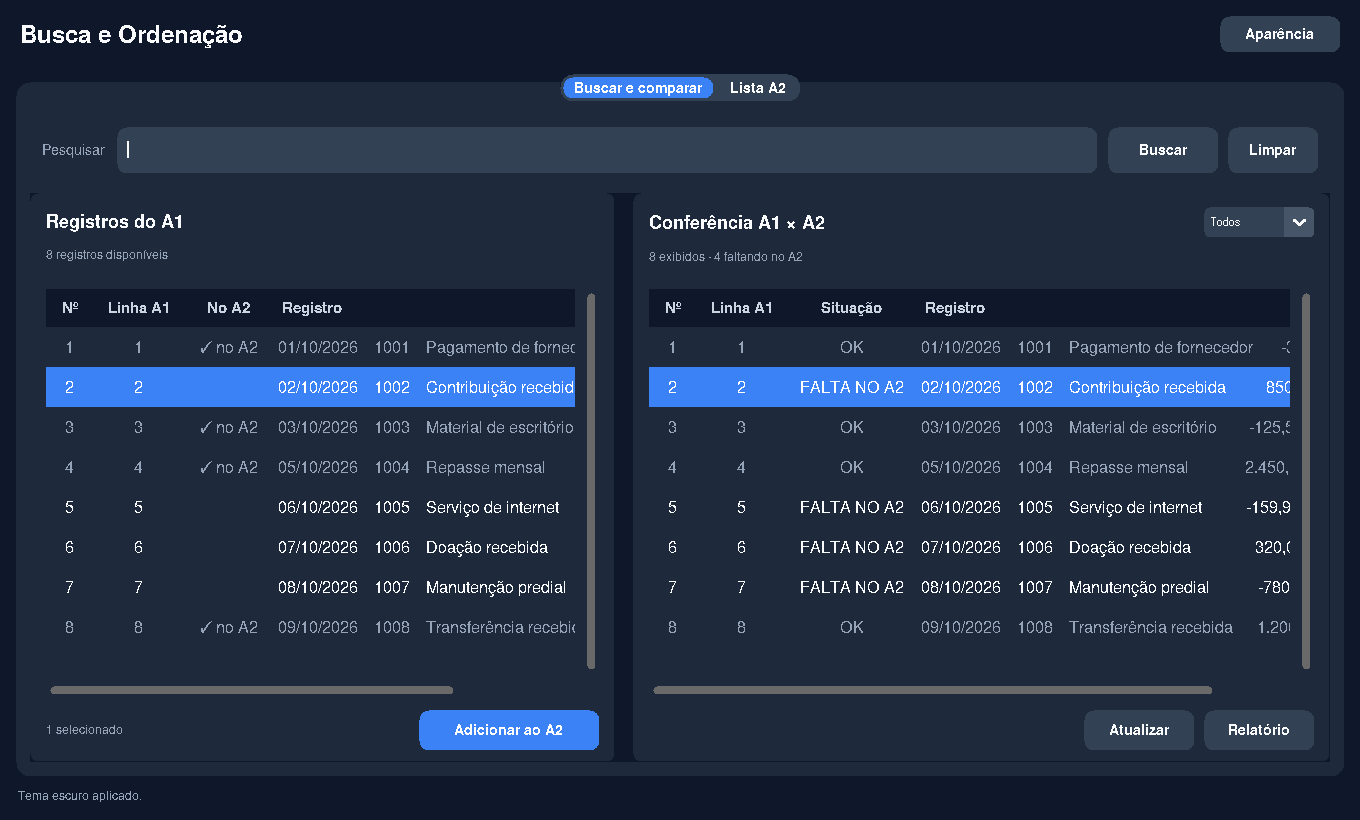
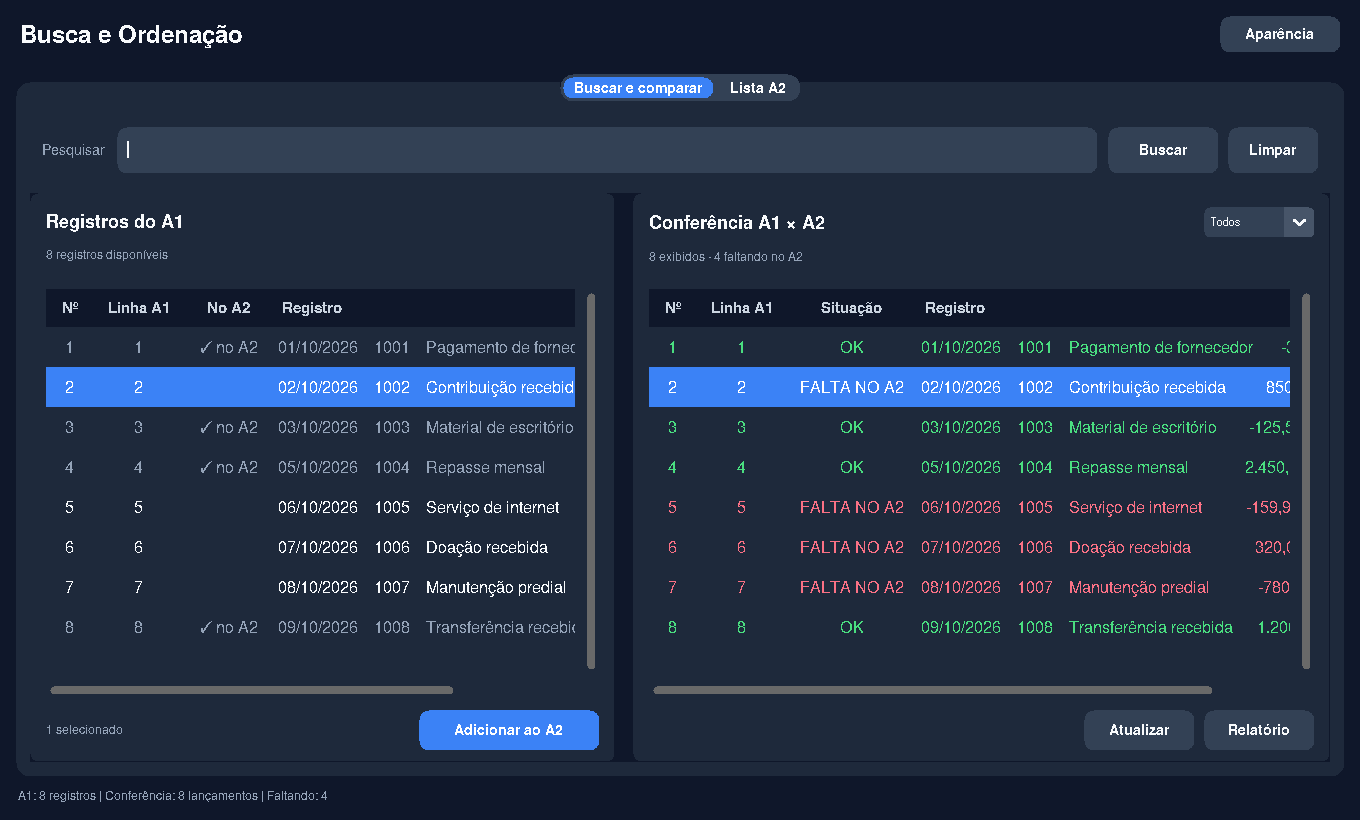
Restaura verde e vermelho na conferência de registros

diff --git a/main.py b/main.py
@@ -517,8 +517,8 @@ class App(ctk.CTk):
         estilizar_tabelas(self.modo, normal)
         self.tree_busca.tag_configure("ja", foreground=cm("cinza", self.modo))
         self.tree_busca.tag_configure("novo", foreground=cm("texto", self.modo))
-        self.tree_deb.tag_configure("falta", foreground=cm("texto", self.modo))
-        self.tree_deb.tag_configure("ok", foreground=cm("cinza", self.modo))
+        self.tree_deb.tag_configure("falta", foreground=cm("vermelho", self.modo))
+        self.tree_deb.tag_configure("ok", foreground=cm("verde", self.modo))
         self.divisao.configure(bg=cm("bg", self.modo))
 
     #  aba 1: buscar no A1 
